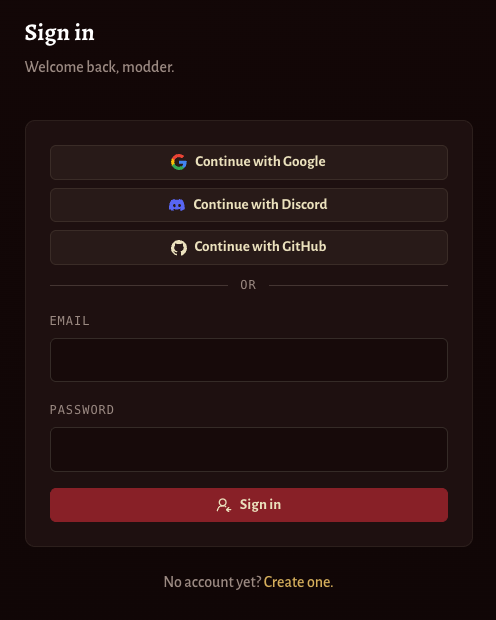
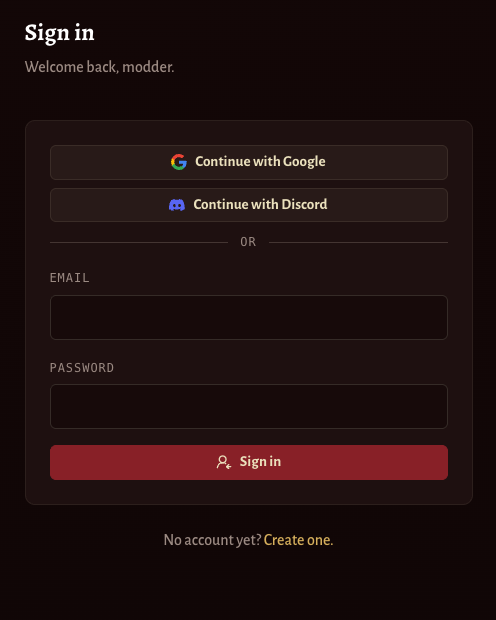
docs: show only supported providers in auth screenshots

diff --git a/docs/pr-previews/official-brand-icons/README.md b/docs/pr-previews/official-brand-icons/README.md
@@ -16,8 +16,10 @@ same crop. The website footer is scrolled into view before capture.
 - `web-signup-*`: `/auth/signup`.
 - `web-footer-*`: the shared website footer on `/auth/signup`.
 
-A temporary local API returns all three providers as available and a null
-session. It contains no credentials and is not shipped. The desktop uses
+Authentication screenshots use a temporary local API with Google and Discord
+available, GitHub disabled, and a null session. The original all-provider
+screenshot fixture has been replaced to reflect the supported sign-in options.
+The fixture contains no credentials and is not shipped. The desktop uses
 its existing browser preview with sample mods. No OAuth requests or live
 account changes were made. These screenshots verify rendering, not a native
 Tauri OAuth handoff. The website sign-in layout was also checked at 390 × 844.
@@ -29,3 +31,7 @@ Sources and license attribution are recorded in `THIRD_PARTY_NOTICES.md`.
 The General pair was captured in an isolated checkout at base `0eaf3c9b`
 and PR implementation `361b6d1f`, excluding unrelated local Settings layout
 edits. Both images use the same 960 × 472 crop from a 1280 × 1000 viewport.
+
+This PR changes icon imports and artwork only. The config-gated GitHub
+authentication button already existed on the base branch; no sign-in provider,
+availability gate, callback, or authentication handler is added or enabled.
